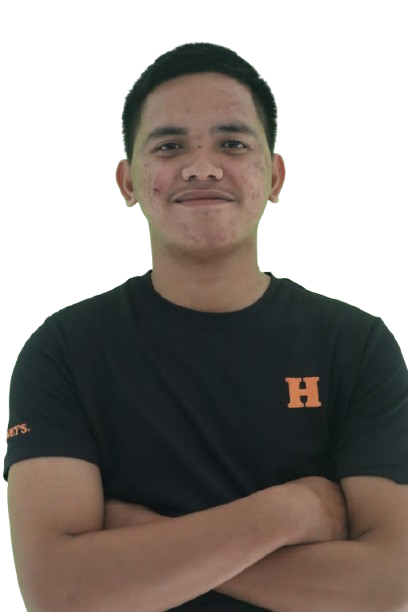
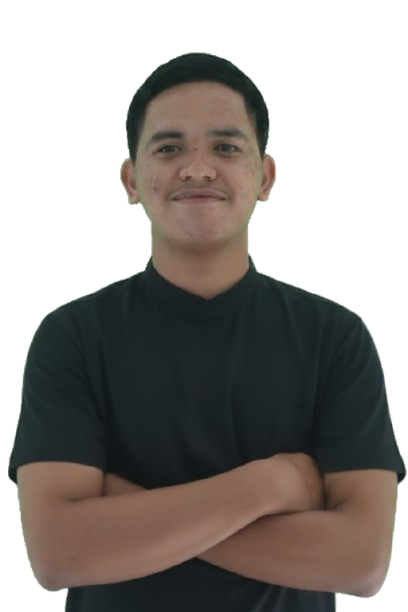
added professional images

diff --git a/src/css/style.css b/src/css/style.css
@@ -443,7 +443,7 @@ nav a:hover::after {
         border-radius: 32px; /* Change to a rounded square on mobile */
     }
     .main-image-bg img {
-        width: 70%;
+        width: 90%;
         height: 100%;
         border-radius: 32px; /* Match the container's rounded square shape */
     }
